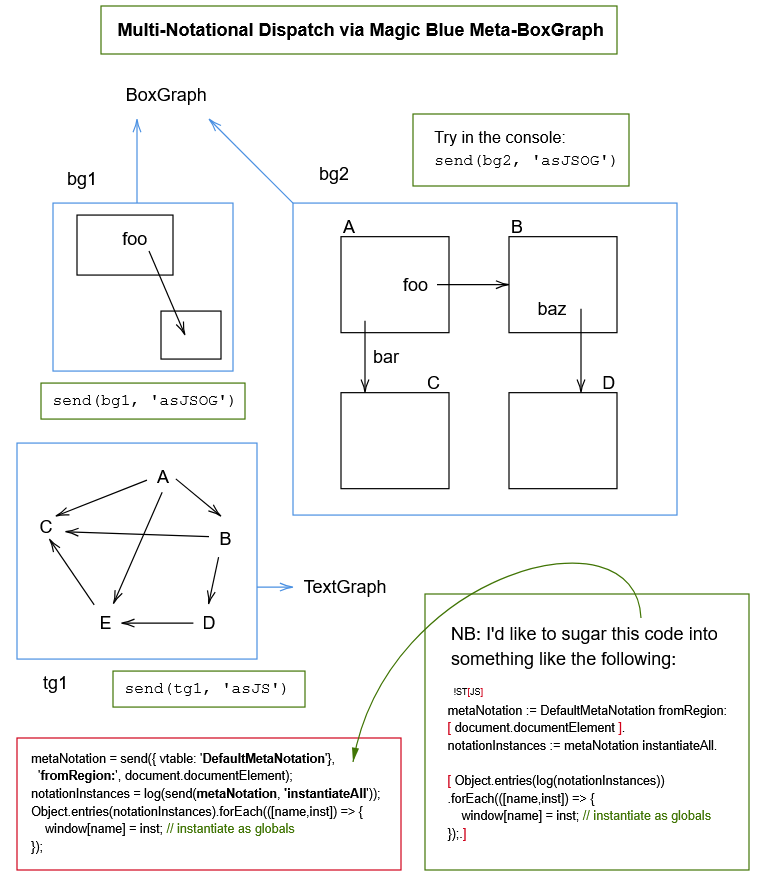
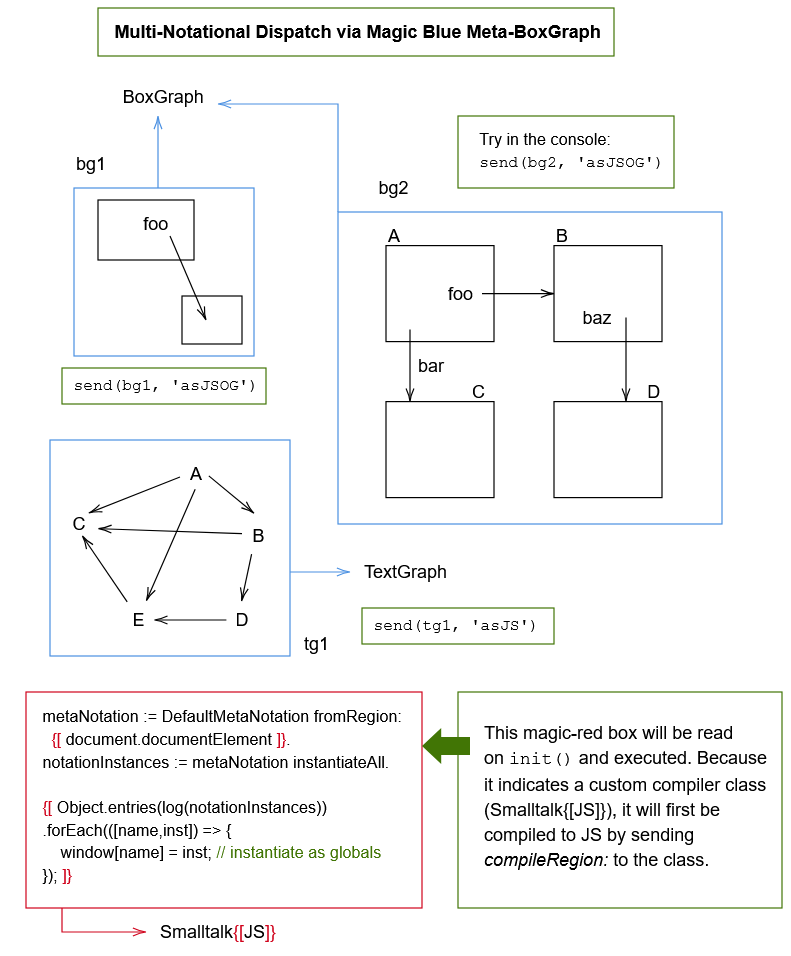
Execute ST{[JS]} sugar!!!

diff --git a/st-js-transpiler.js b/st-js-transpiler.js
@@ -1,0 +1,229 @@
+
+split_punctuation = function(frag) {
+  const spans = [];
+  let span_start = 0;
+  let dot_index = -1;
+  for (let i=0; i<frag.length; i++) {
+    const c = frag.at(i);
+    if (['(',')','.'].includes(c)) {
+      spans.push(frag.substring(span_start,i));
+      spans.push(c);
+      span_start = i+1;
+      if (c === '.' && dot_index === -1) dot_index = spans.length-1;
+    }
+  }
+  spans.push(frag.substring(span_start));
+  if (dot_index !== -1) { // Try and form siblings into a Number literal
+    const parts = [];
+    if (dot_index-1 >= 0) {
+      parts.push(spans[dot_index-1]);
+      parts.push(spans[dot_index]);
+      if (dot_index+1 < spans.length) {
+        parts.push(spans[dot_index+1]);
+        const lit = parts.join('');
+        if (/^-?\d+(\.\d+)?$/.test(lit))
+          spans.splice(dot_index-1, 3, lit);
+      }
+    }
+  }
+  return spans;
+}
+
+/*
+Returns list of strings that fall into the following (implicit) classes:
+HASH = "#"
+ASSIGN = ":="
+STRING_LIT eg "'ST[JS]'" "'Hello World Forever'" (notice includes closing/ending quotes)
+KW eg "doSomethingWith:" "and:" (notice includes ending colon)
+IDENT eg "foo" "endpoints" isDirected"
+PAREN eg "(" ")"
+NUM_LIT eg "-5.324"
+PERIOD = "."
+*/
+tokenize_ST_frag = function(st_frag) {
+  const quote_indexes = [];
+  for (let i=0; i<st_frag.length; i++)
+    if (st_frag.at(i) === "'") quote_indexes.push(i);
+  if (quote_indexes.length % 2 === 1) throw 'Unmatched single quote';
+  const quote_spans = [];
+  for (let i=0; i<quote_indexes.length/2; i++)
+    quote_spans.push([quote_indexes[2*i], quote_indexes[2*i+1]]);
+  const spans = [];
+  let last_i = -1;
+  for (const [start,end] of quote_spans) {
+    if (start > last_i+1) { // insert a non-quote span
+      const span = [last_i+1, start-1];
+      span.quoted = false;
+      spans.push(span);
+    }
+    const span = [start,end];
+    span.quoted = true;
+    spans.push(span);
+    last_i = end;
+  }
+  if (last_i+1 < st_frag.length) { // push last unquoted if applicable
+    const span = [last_i+1, st_frag.length-1];
+    span.quoted = false;
+    spans.push(span);
+  }
+  const substrings = spans.map(span => {
+    const [start,end] = span;
+    const substring = new String(st_frag.substring(start,end+1));
+    substring.quoted = span.quoted;
+    return substring;
+  });
+  const tokenized = substrings.map(s => {
+    if (s.quoted) return s.toString(); // unbox
+    const de_puncted = s.replaceAll('\n',' ').split(/\s+/).map(split_punctuation);
+    return de_puncted.flat();
+  });
+  return tokenized.flat().filter(s => s.length > 0);
+}
+
+// === Mostly Claude Opus 4.7 generated ===
+
+
+classify_token = function(tok) {
+  if (typeof tok !== 'string') {
+    if (tok && tok.kind === 'hole') return 'HOLE';
+    throw 'Unknown token: ' + JSON.stringify(tok);
+  }
+  if (tok === '#')  return 'HASH';
+  if (tok === '(')  return 'PAREN_OPEN';
+  if (tok === ')')  return 'PAREN_CLOSE';
+  if (tok === '.')  return 'PERIOD';
+  if (tok === ':=') return 'ASSIGN';
+  const c0 = tok.at(0);
+  if (c0 === "'") return 'STRING_LIT';
+  if (c0 === '-' || (c0 >= '0' && c0 <= '9')) {
+    if (/^-?\d+(\.\d+)?$/.test(tok)) return 'NUM_LIT';
+    throw 'Malformed numeric token: ' + tok;
+  }
+  if (tok.at(-1) === ':') return 'KW';
+  if (c0 >= 'A' && c0 <= 'Z') return 'IDENT_UPPER';
+  if ((c0 >= 'a' && c0 <= 'z') || c0 === '_') return 'IDENT_LOWER';
+  throw 'Unrecognized token: ' + tok;
+}
+
+
+// ST[JS] transpiler. Takes [st_frag1, js_hole1, st_frag2, js_hole2, ...]
+// (alternating, starting with ST) and returns a string of JS.
+
+function ST_with_holes_to_JS(st_with_holes /* = [ st_frag1, js_hole1, st_frag2, ... ] */) {
+  // ---- Step 1: build a flat token stream of strings + hole objects ----
+  const tokens = [];
+  for (let i = 0; i < st_with_holes.length; i++) {
+    if (i % 2 === 0) tokens.push(...tokenize_ST_frag(st_with_holes[i]));
+    else             tokens.push({ kind: 'hole', code: st_with_holes[i] });
+  }
+
+  // ---- Step 2: recursive-descent parse ----
+  let pos = 0;
+  const kindAt  = (n=0) => pos+n >= tokens.length ? null : classify_token(tokens[pos+n]);
+  const consume = () => tokens[pos++];
+  const expect  = (k) => {
+    if (kindAt() !== k) throw 'Expected ' + k + ', got ' + kindAt() + ' at token ' + pos;
+    return consume();
+  };
+
+  const parsePrimary = () => {
+    const k = kindAt();
+    if (k === 'IDENT_UPPER') return { kind: 'vtable', name: consume() };
+    if (k === 'HASH') {
+      consume();
+      const s = expect('STRING_LIT');
+      return { kind: 'vtable', name: s.slice(1, -1) }; // strip quotes
+    }
+    if (k === 'PAREN_OPEN') {
+      consume();
+      const e = parseExpr();
+      expect('PAREN_CLOSE');
+      return e;
+    }
+    if (k === 'NUM_LIT' || k === 'STRING_LIT') return { kind: 'literal', code: consume() };
+    if (k === 'HOLE')        return { kind: 'raw', code: consume().code };
+    if (k === 'IDENT_LOWER') return { kind: 'var', name: consume() };
+    throw 'Expected primary, got ' + k + ' at token ' + pos;
+  };
+
+  const parseUnaryChain = () => {
+    let acc = parsePrimary();
+    while (true) {
+      const k = kindAt();
+      if (k === 'IDENT_LOWER') acc = { kind: 'send', recv: acc, pairs: [{ k: consume() }] };
+      else if (k === 'HOLE')   acc = { kind: 'cont', expr: acc, code: consume().code };
+      else break;
+    }
+    return acc;
+  };
+
+  const parseExpr = () => {
+    const recv = parseUnaryChain();
+    if (kindAt() !== 'KW') return recv;
+    const pairs = [];
+    while (kindAt() === 'KW') {
+      const k = consume();
+      const a = parseUnaryChain();
+      pairs.push({ k, a });
+    }
+    return { kind: 'send', recv, pairs };
+  };
+
+  const parseStmt = () => {
+    // assignment: lowerId ':=' expr
+    if (kindAt(0) === 'IDENT_LOWER' && kindAt(1) === 'ASSIGN') {
+      const target = consume();
+      consume(); // ASSIGN
+      return { kind: 'assign', target, value: parseExpr() };
+    }
+    // raw statement: a HOLE that isn't extended by anything chainable
+    if (kindAt(0) === 'HOLE') {
+      const next = kindAt(1);
+      if (next === null || next === 'PERIOD') return { kind: 'raw', code: consume().code };
+    }
+    return parseExpr();
+  };
+
+  const parseProgram = () => {
+    if (kindAt() === null) return { kind: 'program', stmts: [] };
+    const stmts = [parseStmt()];
+    while (kindAt() === 'PERIOD') {
+      consume();
+      if (kindAt() === null) break; // trailing dot
+      stmts.push(parseStmt());
+    }
+    if (kindAt() !== null) throw 'Expected end of input, got ' + kindAt() + ' at token ' + pos;
+    return { kind: 'program', stmts };
+  };
+
+  // ---- Step 3: codegen ----
+  return ST_AST_to_JS(parseProgram());
+}
+
+// Pure tree-walker so the AST is inspectable for debugging.
+ST_AST_to_JS = function(node) {
+  const gen = ST_AST_to_JS;
+  switch (node.kind) {
+    case 'program': return node.stmts.map(gen).join(';\n');
+    case 'assign':  return node.target + ' = ' + gen(node.value);
+    case 'raw':     return node.code;
+    case 'send': {
+      const parts = [gen(node.recv)];
+      for (const p of node.pairs) {
+        parts.push("'" + p.k + "'");
+        if (p.a !== undefined) parts.push(gen(p.a));
+      }
+      return 'send(' + parts.join(', ') + ')';
+    }
+    case 'cont':    return gen(node.expr) + node.code;
+    case 'vtable':  return "{vtable: '" + node.name + "'}";
+    case 'literal': return node.code;
+    case 'var':     return node.name;
+    default:        throw 'Unknown AST kind: ' + node.kind;
+  }
+};
+
+HOLE_DELIMS = ['{[',']}'];
+carve_non_nested_holes = str => str.split(HOLE_DELIMS[0]).flatMap(s => s.split(HOLE_DELIMS[1]));
+
+compile_non_nested_holes = str => ST_with_holes_to_JS(carve_non_nested_holes(str));

diff --git a/general-containment.js b/general-containment.js
@@ -1356,17 +1356,15 @@ vtables['JS'] = {
   }
 };
 
-vtables['ST[JS]'] = {
+vtables['Smalltalk{[JS]}'] = {
   ['compileRegion:']: (self, scope) => {
     const code_paras = Array.from(scope.querySelectorAll('.is-paragraph'));
     const code_strings = code_paras.map(p => p.dataset.string);
-    const source = code_strings.join('\n\n');
-    return () => log('Execute in ST[JS]:', source);
+    const stjs_source = code_strings.join('\n\n');
+    const js_source = compile_non_nested_holes(stjs_source);
+    console.debug('Compiled ST{[JS]} to:\n', js_source);
+    return () => eval(js_source);
   }
-};
-
-vtables['JS[ST]'] = {
-  ['compileRegion:']: vtables['ST[JS]']['compileRegion:'],
 };
 
 everything = {};

diff --git a/general-containment.jstalk.js b/general-containment.jstalk.js
@@ -1360,17 +1360,15 @@ vtables['JS'] = {
   }
 };
 
-vtables['ST[JS]'] = {
+vtables['Smalltalk{[JS]}'] = {
   ['compileRegion:']: (self, scope) => {
     const code_paras = Array.from(scope.querySelectorAll('.is-paragraph'));
     const code_strings = code_paras.map(p => p.dataset.string);
-    const source = code_strings.join('\n\n');
-    return () => log('Execute in ST[JS]:', source);
+    const stjs_source = code_strings.join('\n\n');
+    const js_source = compile_non_nested_holes(stjs_source);
+    console.debug('Compiled ST{[JS]} to:\n', js_source);
+    return () => eval(js_source);
   }
-};
-
-vtables['JS[ST]'] = {
-  ['compileRegion:']: vtables['ST[JS]']['compileRegion:'],
 };
 
 everything = {};
